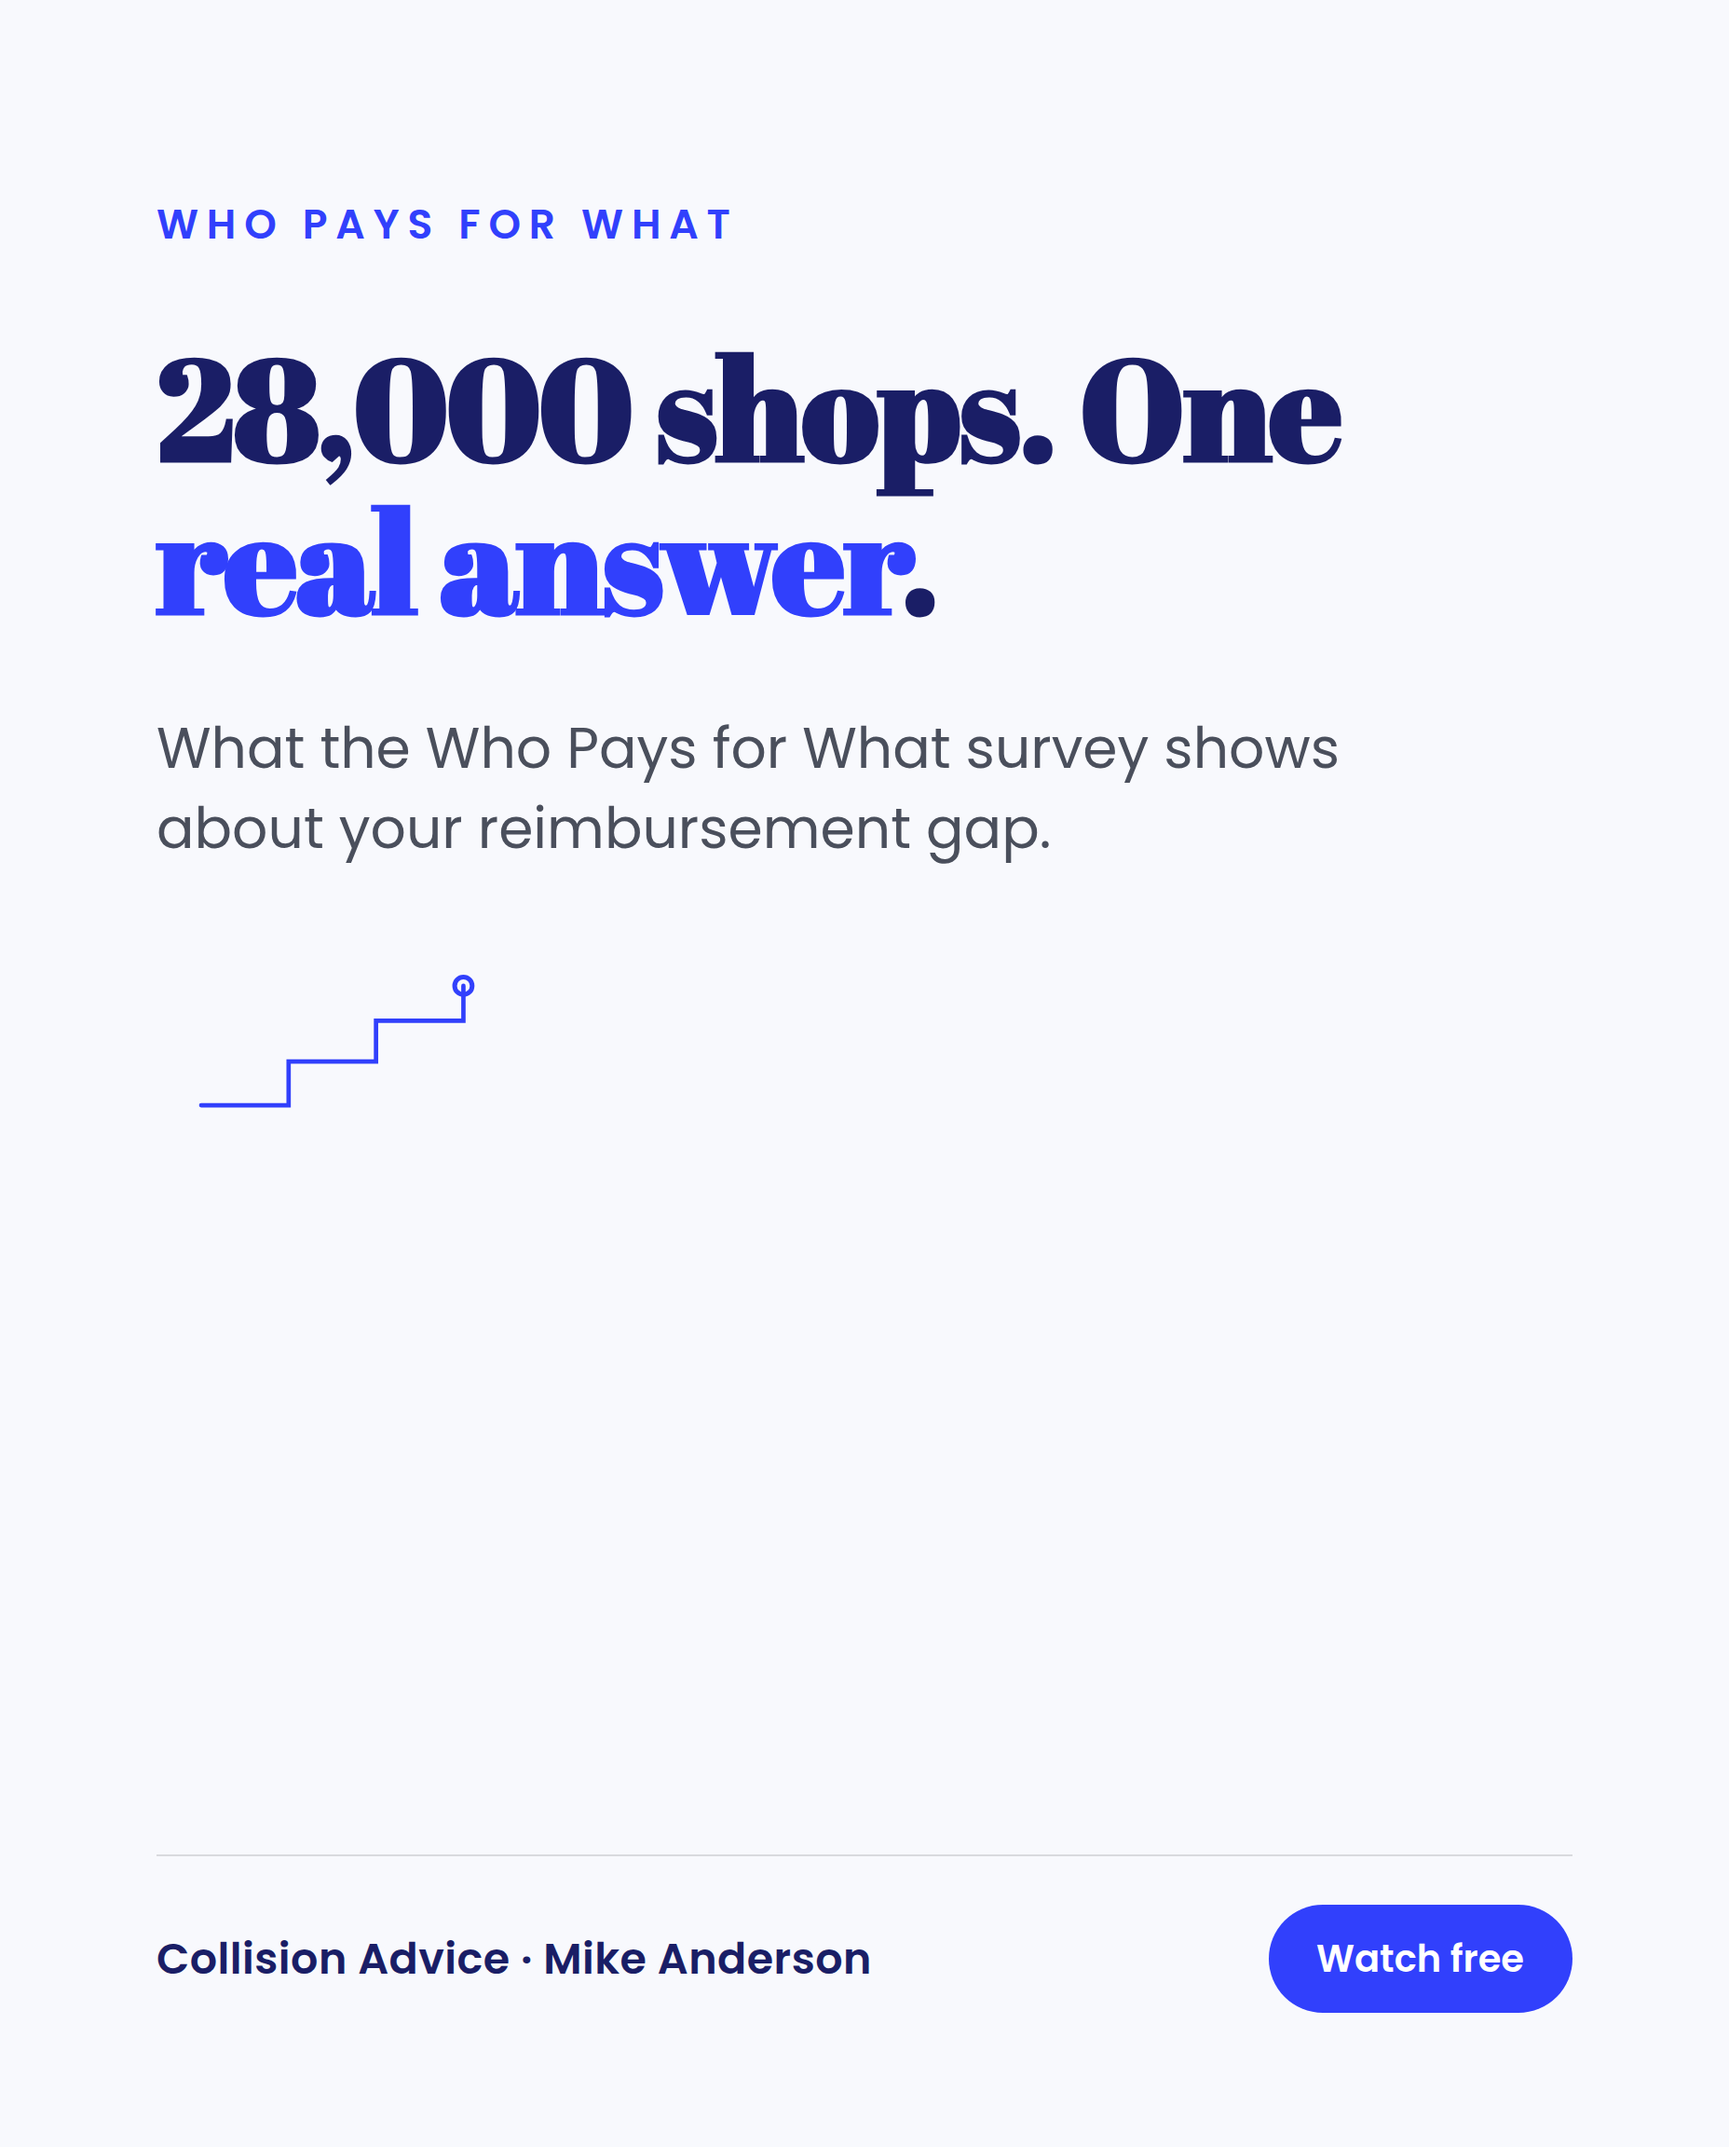
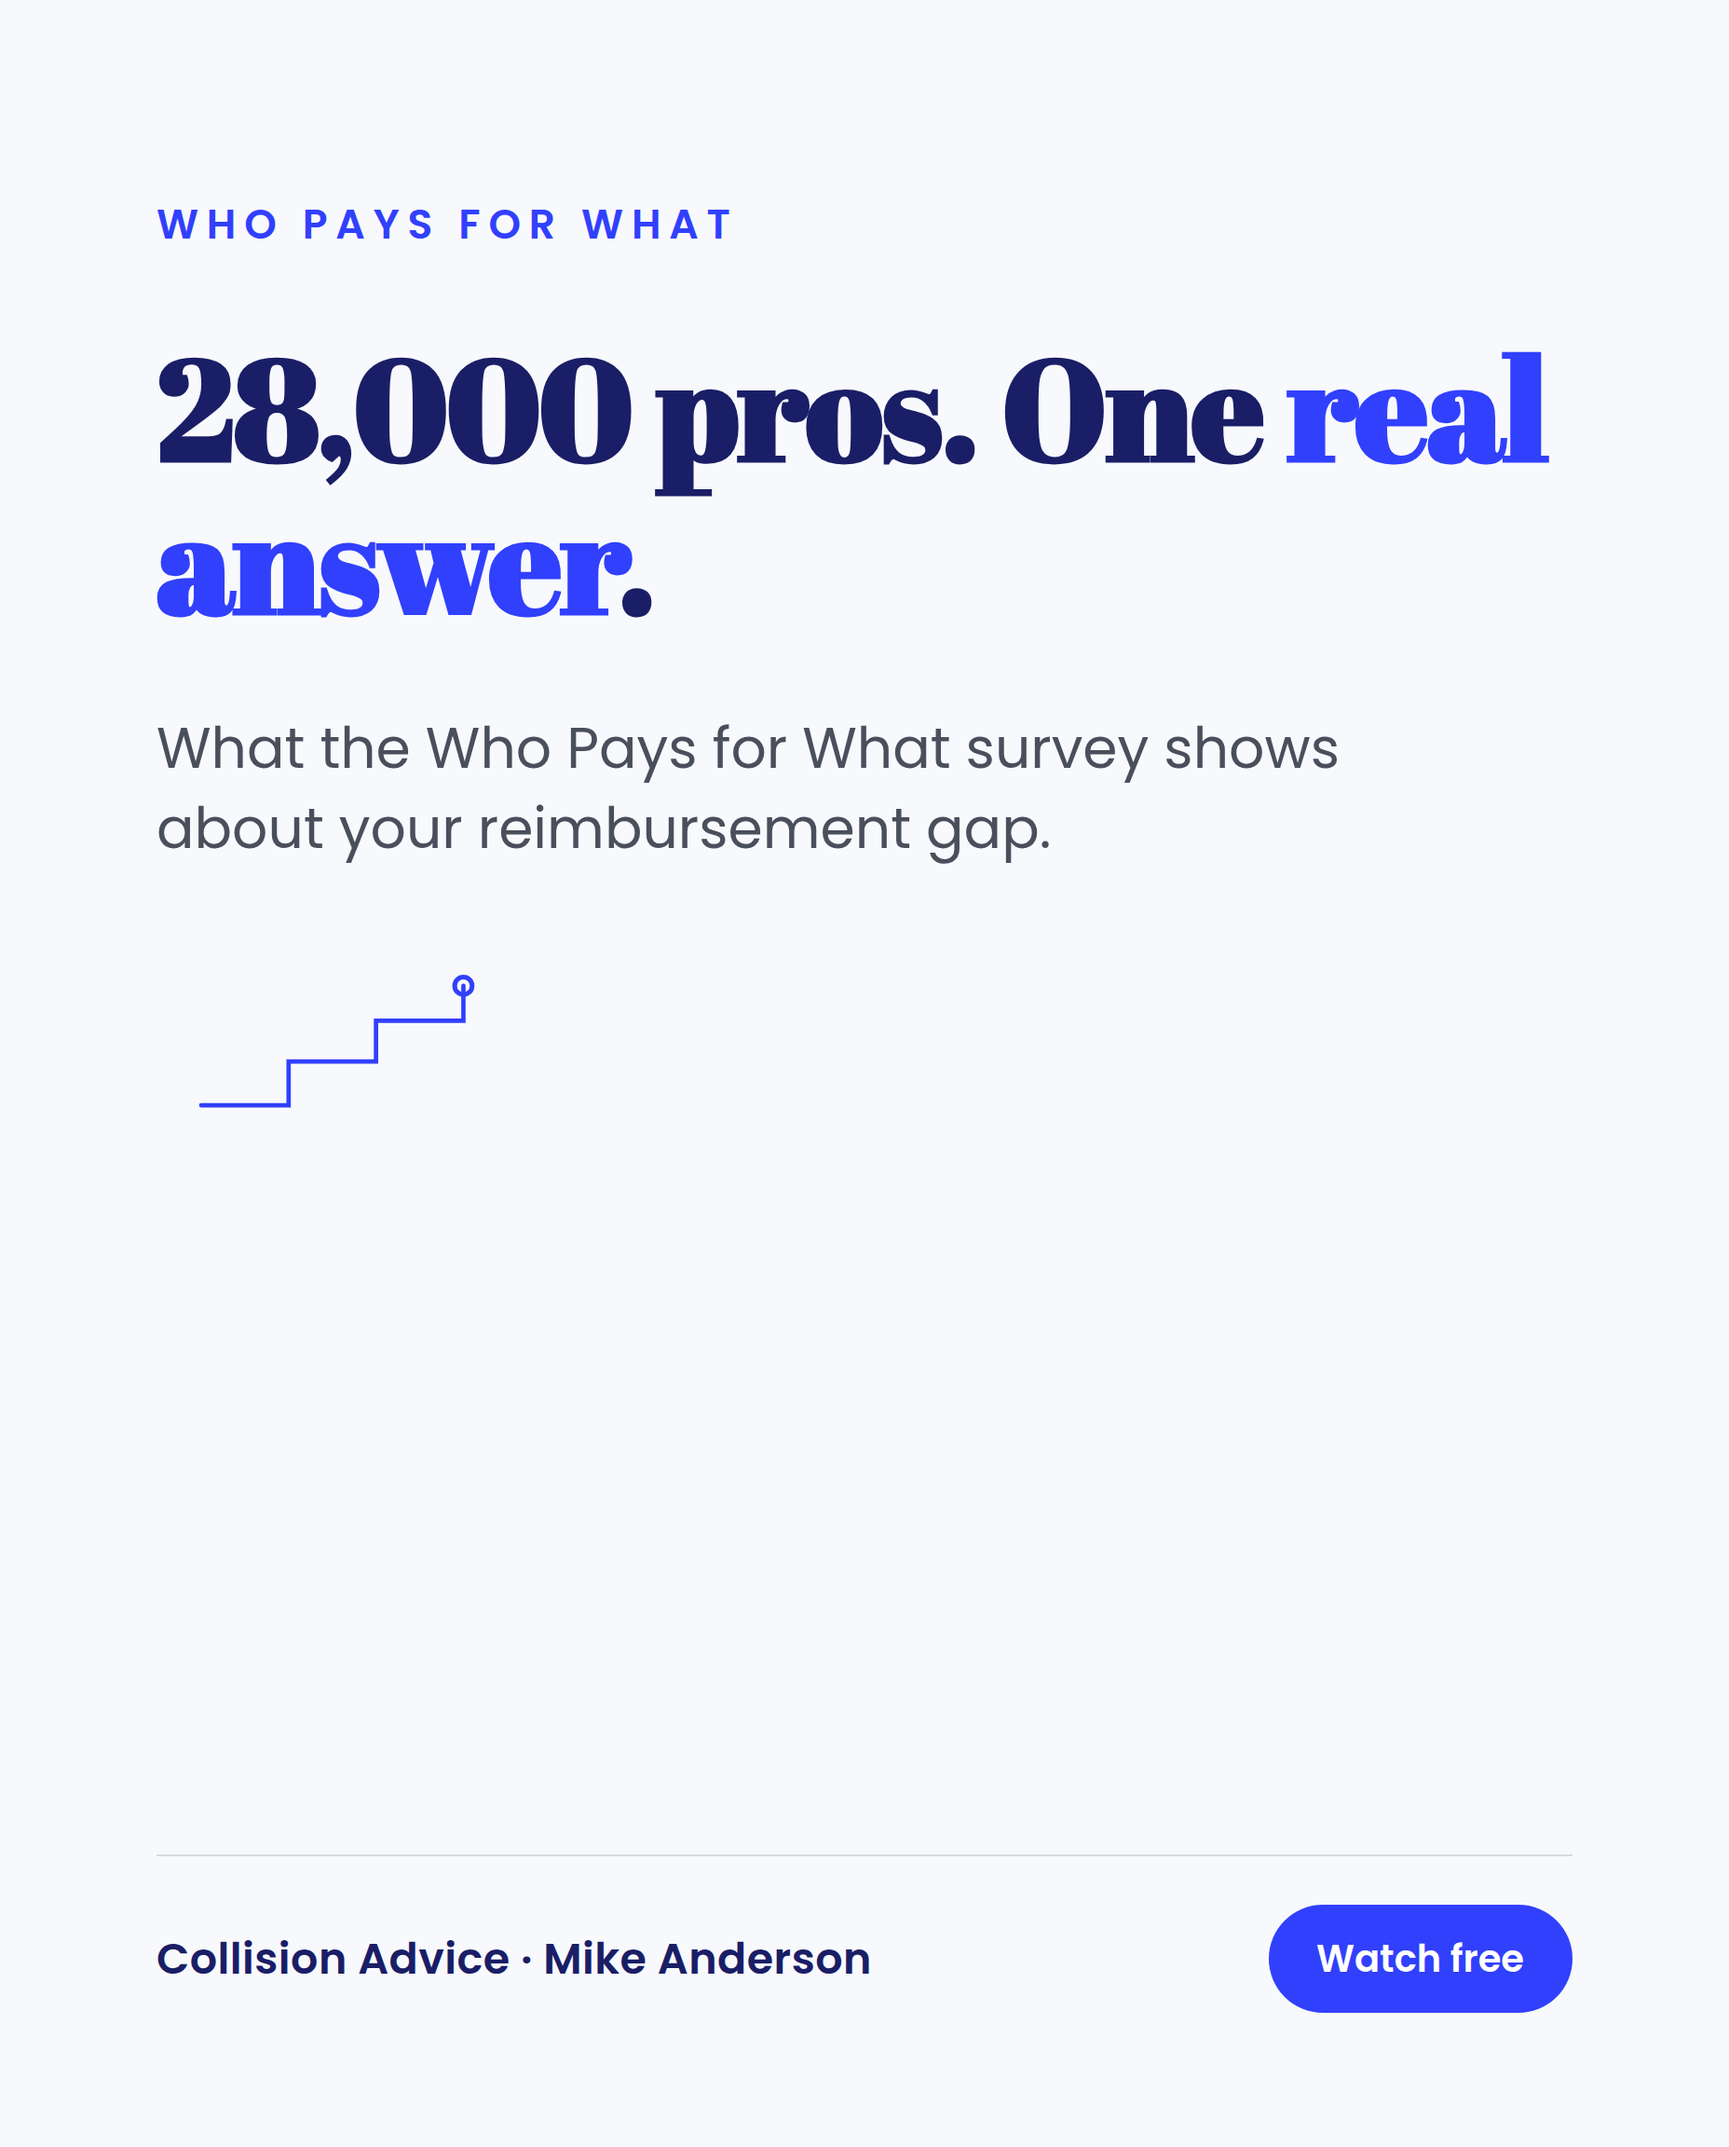
showcase: mike-anderson

Changed region(s): [[0.0938, 0.1562, 0.9062, 0.3125]]

diff --git a/mike-anderson/deck.html b/mike-anderson/deck.html
@@ -94,10 +94,10 @@ const S = [
  {t:'normal',k:'The fight nobody trained you for',title:'Insurer procedures are not the same shop to shop, or state to state.',body:'What one insurer pays for a scan, a calibration, or a paint procedure in one state is not what they pay two states over, and the reimbursement rules shift constantly. Fighting that blind, one estimate at a time, is exhausting and expensive.'},
  {t:'dark',title:'A repair order priced on hope pays exactly what the insurer feels like paying.'},
 
- {t:'section',idx:'Part Two',title:'The Two Numbers That Change Everything'},
- {t:'normal',k:'Who Pays for What',title:'A quarterly survey of 28,000-plus collision professionals on what insurers actually pay.',body:'Real, current data on reimbursement practices by operation and by region, gathered from the professionals living it every day. This is the first number: what the market is actually paying, not what any single insurer claims it pays.'},
+ {t:'section',idx:'Part Two',title:'The Data That Changes Everything'},
+ {t:'normal',k:'Who Pays for What',title:'A quarterly survey of 28,000-plus collision professionals on what insurers actually pay.',body:'Real, current data on reimbursement practices by operation and by region, gathered from the professionals living it every day: what the market is actually paying, not what any single insurer claims it pays.'},
  {t:'normal',k:'Estimate auditing',title:'A systematic review of your own estimates against that real data.',body:'Not a hunch that something looks off. A structured audit of the estimate itself, checked line by line against documented reimbursement patterns, to find exactly where the gap is and fix it before it repeats on the next hundred repair orders.'},
- {t:'normal',k:'Peer benchmarking',title:'Comparing your real numbers against 400-plus shops fighting the same fight.',body:'Twenty-five years of Spartan 300 and Business Council 20 Group data means your numbers are never sitting in isolation. You can see exactly where your shop stands next to shops that look like yours, run by owners who compare notes instead of guessing alone.'},
+ {t:'normal',k:'Peer benchmarking',title:'Comparing your real numbers against 400-plus shops fighting the same fight.',body:'Spartan 300 and Business Council 20 Group data means your numbers are never sitting in isolation. You can see exactly where your shop stands next to shops that look like yours, run by owners who compare notes instead of guessing alone.'},
  {t:'dark',title:'You cannot fix a number you have never compared to anyone else’s.'},
 
  {t:'section',idx:'Part Three',title:'The Shop That Stops Guessing'},
@@ -105,7 +105,7 @@ const S = [
  {t:'normal',k:'Why Mike Anderson',title:'Twenty-five years of real numbers, taught in the open.',body:'Mike Anderson owned and operated multiple collision centers voted the number one shop in the Washington DC, Maryland, and Virginia market twelve years running. He has spent 300-plus days a year for over a decade consulting on-site, co-facilitates Business Council 20 Groups with Axalta, and holds the AMAM designation through the Automotive Management Institute.'},
 
  {t:'section',idx:'Your Next Step',title:'Get Your Real Numbers'},
- {t:'normal',k:'Spartan 300 / Legacy Group',title:'Twenty-five years of peer benchmarking, built for OEM-certified shops.',body:'In-person meetings three times a year, a monthly training webinar, an annual Symposium, and the Legacy Group reporting suite that turns your numbers into something you can actually compare.'},
+ {t:'normal',k:'Spartan 300 / Legacy Group',title:'Peer benchmarking built for OEM-certified shops.',body:'In-person meetings three times a year, a monthly training webinar, an annual Symposium, and the Legacy Group reporting suite that turns your numbers into something you can actually compare.'},
  {t:'normal',k:'Business Council 20 Groups / on-site consulting',title:'Structured financial benchmarking, or a deeper one-on-one path.',body:'Business Council 20 Groups, co-facilitated with Axalta, for shops that want structured peer accountability. On-site consulting and estimate auditing for owners who want the audit done in their own shop first.'},
  {t:'cta',title:'Ready to know where you really stand?',chips:['Explore Spartan 300 / Legacy Group','Join a Business Council 20 Group'],disc:'Educational content for collision repair shop owners. No reimbursement amount, income, or business result is guaranteed. Results vary by shop, market, and insurer.'},
 ];

diff --git a/mike-anderson/index.html b/mike-anderson/index.html
@@ -75,7 +75,7 @@
   <div class="section">
     <div class="section-label">The masterclass, already built</div>
     <iframe class="deck-embed" src="/mike-anderson/deck.html" allowfullscreen></iframe>
-    <div class="deck-caption">Rather than describe what I would build, I built a piece of it: a shop-owner masterclass drawn from your Who Pays for What survey and your benchmarking data, ready to present under your name. It runs alongside your existing webinar archive and financial-analysis signup, a second, always-on path into Spartan 300 and the 20 Groups. Use arrow keys or click to navigate.</div>
+    <div class="deck-caption">Rather than describe what I would build, I built a piece of it: a shop-owner masterclass drawn from the Who Pays for What survey and your benchmarking data, ready to present under your name. It runs alongside your existing webinar archive and financial-analysis signup, a second, always-on path into Spartan 300 and the 20 Groups. Use arrow keys or click to navigate.</div>
   </div>
 
   <div class="section">
@@ -104,8 +104,8 @@
         <tr><td>Shop-owner registrations / month</td><td>50</td><td>75</td></tr>
         <tr><td>Show rate</td><td>30%</td><td>35%</td></tr>
         <tr><td>Masterclass viewers</td><td>15</td><td>26</td></tr>
-        <tr><td>Next-step rate</td><td>5%</td><td>8%</td></tr>
-        <tr><td>New members / month</td><td>1</td><td>2</td></tr>
+        <tr><td>Next-step rate</td><td>6%</td><td>8%</td></tr>
+        <tr><td>New members / month</td><td>~1</td><td>~2</td></tr>
         <tr class="hl"><td>New recurring revenue added each month</td><td>~$300 / mo</td><td>~$600 / mo</td></tr>
       </tbody>
     </table>
@@ -126,7 +126,7 @@
         <tr class="you"><td>Mike Anderson / Collision Advice</td><td>Peer benchmarking and reimbursement data</td><td class="not-running">Not found, as far as I can find</td></tr>
       </tbody>
     </table>
-    <p class="fn">The two other real collision-specific coaches are already buying this feed, and shop owners are clearly responding to it. Neither one teaches the benchmarking and reimbursement-data angle, the exact ground Spartan 300, Business Council 20 Groups, and Who Pays for What already own. That lane is wide open for you, and the one piece missing is paid traffic into the masterclass above.</p>
+    <p class="fn">Luehr and Felder are already buying this feed. Neither one teaches the benchmarking and reimbursement-data angle, the exact ground Spartan 300, Business Council 20 Groups, and Who Pays for What already own. That lane is wide open for you, and the one piece missing is paid traffic into the masterclass above.</p>
   </div>
 
   <div class="section calendly-section">
